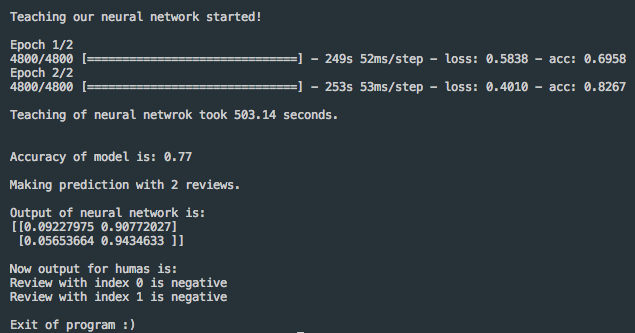
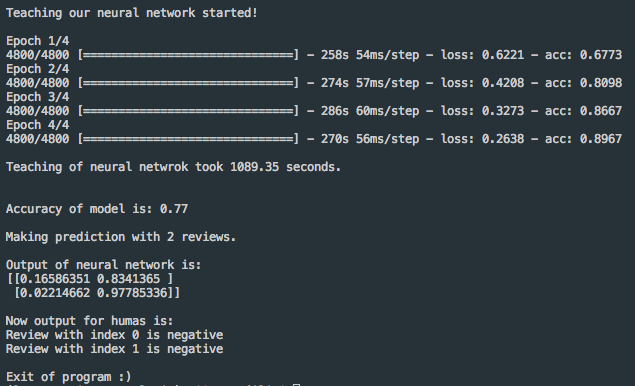
:skull: better described code, added one more epoch

diff --git a/lstm.py b/lstm.py
@@ -11,30 +11,35 @@ from keras.preprocessing.text import Tokenizer
 from keras.preprocessing.sequence import pad_sequences
 from sklearn.model_selection import train_test_split
 
+# clear console
 cls = lambda: print('\n'*100)
 cls()
 
+# global variables
 embed_dim = 128
 lstm_out = 200
 batch_size = 32
 maxlen= 900
 
 def get_reviews_from_file(how_many = 6000):
-    # extract archive from https://www.yelp.com/dataset/download to acces ./review.json (filesize is 4,21 GB)
+    # extract archive from https://www.yelp.com/dataset/download to access ./review.json (filesize is 4,21 GB)
     with open('./review.json','r') as review_json:
+        # init shape of dict, we need only text and stars from reviews file
         data = {
             "stars": [],
             "text": []
         }
-
+        # this speaks for itself
         replace_unwanted = lambda x: re.sub('([^a-zA-z0-9\s])|(\n)','',x)
 
         for i, row in enumerate(review_json):
             row = json.loads(row)
             
+            # fill our dict (data) with parsed values from file 
             data['stars'].append(int(row['stars']))
             data['text'].append(replace_unwanted(row['text']))
 
+            # break cycle if we reached specified value of reviews
             if(i==how_many-1):
                 break
 
@@ -42,47 +47,70 @@ def get_reviews_from_file(how_many = 6000):
 
 
 def preprocess_data(data):
+    # add sentiment attribute for each review in dict
+    # if review has more than 3 stars, we consider this review as positive, on the other hand review is negative
     data['sentiment'] = ['pos' if (x>3) else 'neg' for x in data['stars']]
 
+    # init tokenizer, keep only 2500 most common words, lowerize sentences, split sentences by space
     tokenizer = Tokenizer(num_words=2500, lower=True, split=' ' )
+    # fill tokenizer with our texts
     tokenizer.fit_on_texts(data['text'])
-
+    # transform texts to sequence of integers
     X = tokenizer.texts_to_sequences(data['text'])
+    # transform each sequence to same length (specified by maxlen)
     X = pad_sequences(X, maxlen=maxlen)
 
     return X
 
 def build_lstm_model(X):
-
+    # init sequential model
     model = Sequential()
-    model.add(Embedding(2500, embed_dim, input_length = X.shape[1]))
+    # vectorize input
+    # input_dim (size of vocabulary) is 2500 because we have only 2500 most common words (line 53)
+    # embed_dim (shape of output)
+    # input_length (length of input sequences), just get shape of first value because lenghts of all values are same (line 59), also could be replaced with maxlen value
+    model.add(Embedding(2500, embed_dim, input_length=X.shape[1]))
+    # prevent from overfitting
     model.add(Dropout(0.2))
+    # add LSTM layer with specified shape of output
     model.add(LSTM(lstm_out))
+    # prevent from overfitting
     model.add(Dropout(0.2))
+    # add Dense layer with specified shape of output, there are only 2 outputs, because review can be only positive or negative
     model.add(Dense(2, activation='softmax'))
-
+    # compile model
     model.compile(loss='categorical_crossentropy', optimizer='adam', metrics=['accuracy'])
 
     return model
 
 def make_train_test_data(X):
+    # convert categorical variables to indicator variables
+    # example input:
+    # [ a , b ]
+    # example output:
+    #  a  b
+    #  1  0
+    #  0  1    
     Y = pd.get_dummies(data['sentiment'])
+    # split data to test,train and their validation
     return train_test_split(X,Y, test_size=0.20, random_state=36)
 
 def humanize_prediction(predicate):
+    # print output of predictions for robots :) e.g. for Sophia
     print('\nOutput of neural network is:')
     print(predicate)
-    print('\nNow output for humas is:')
-    for i, prediction in enumerate(np.argmax(predicate,1)):
-        if(prediction==0):
-            print('Review with index {} is postive'.format(i))
-        else:
-            print('Review with index {} is negative'.format(i))
-
+    # print formated output for humans :)
+    print('\nNow output for humans is:')
+    indexes_of_max_values = np.argmax(predicate,1)
+    for i, prediction in enumerate(indexes_of_max_values):
+        result = 'positive'
+        if(prediction!=0):
+            result = 'negative'
+        print('Review with index {} is {}'.format(i,result))
 
 if __name__ == "__main__":
     try:
-        # prepocess data
+        # preprocess data, methods are described above
         data = get_reviews_from_file()
         X = preprocess_data(data)
         model = build_lstm_model(X)
@@ -91,27 +119,31 @@ if __name__ == "__main__":
         print('\nTeaching our neural network started!\n')
         starting_time = time.time()
 
-        # train  model
-        model.fit(X_train, Y_train, batch_size=batch_size, epochs=2,  verbose=1)
+        # train  model with inputs and their validations
+        model.fit(X_train, Y_train, batch_size=batch_size, epochs=3,  verbose=1)
 
         ending_time = time.time()
         teaching_time = round((ending_time - starting_time),2)
         print('\nTeaching of neural netwrok took {} seconds.\n'.format(teaching_time))
 
-        # evaluate model
-        score, acc = model.evaluate(X_valid, Y_valid, verbose = 2, batch_size = batch_size)
+        # evaluate model on test data and print accuracy
+        score, acc = model.evaluate(X_valid, Y_valid, verbose=2, batch_size=batch_size)
         print("\nAccuracy of model is: %.2f" % (acc))
 
-        #make a prediction
+        # make a prediction
+        # initialize 2 sentences for prediction
         test_reviews = {
             "stars": [2,5],
             "text": ['This was very disappointing.  We had a reservation and checked in right on time.  They had at least 10 tables that were open but they made us wait 25 minutes.  We reminded them twice we were there.  The service continued to be disappointing. We had to wait to get water and even then they only gave 2 out of the 4 of us water.  Took at least 20 min to get bread and to have a waiter come over.  The food was good but not phenomenal.  My steak was luke warm.  They should have a lot better service and quality for the prices you pay.  Mastro, Dominick and Steak 44 are a lot better and 2 of those are not very far from this location.  We would not eat here again.','These guys are great . My engine was totally messed up and I just needed an oil change to keep it going so I could take it to mechanic that recently fixed it and they hooked me up . I highly recommend this location as they are honest and fair']
         }
+        # preprocess sentences for prediction
         test_reviews = preprocess_data(test_reviews)
 
+        # make prediction of sentiment for our 2 sentences 
         print('\nMaking prediction with 2 reviews.')
         predicate = model.predict(test_reviews, batch_size=None, verbose=0, steps=None)
         
+        # we want to view some output for humans :) we aren't robots 
         humanize_prediction(predicate)
   
     finally:
